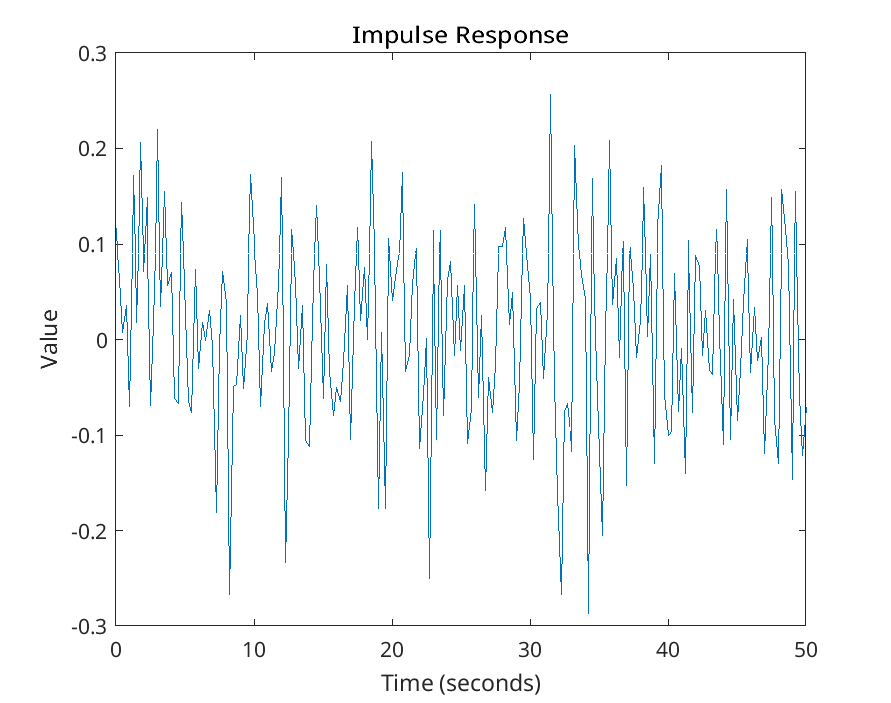
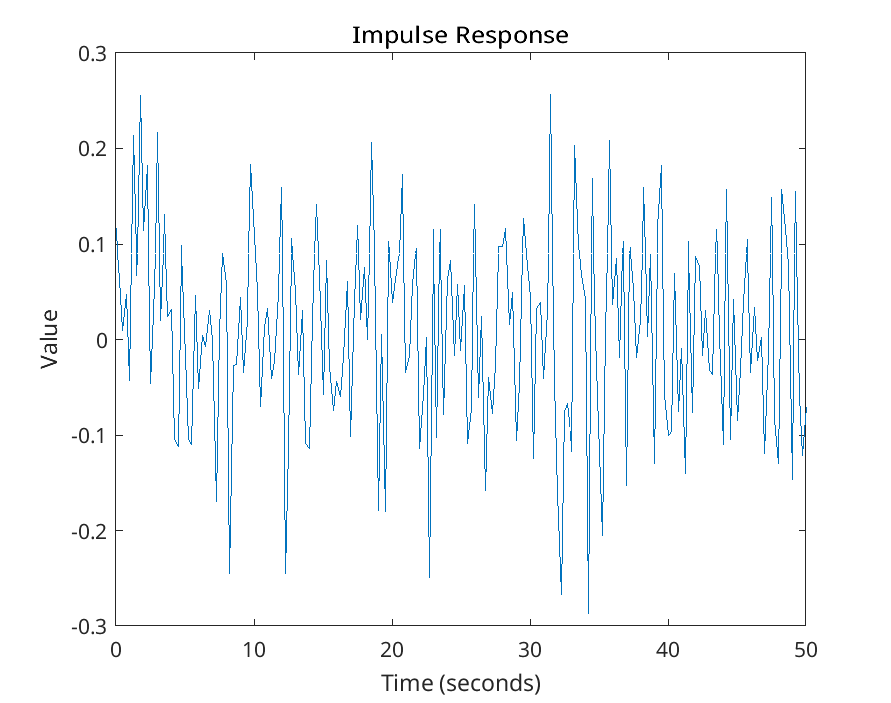
mise à jour

Changed region(s): [[0.1212, 0.2091, 0.2727, 0.6273], [0.3636, 0.5377, 0.3939, 0.5676]]

diff --git a/CE1/freq_domain.m b/CE1/freq_domain.m
@@ -1,0 +1,44 @@
+close all
+clear all
+
+u = prbs(10, 6);
+
+Ts = 0.25
+stop_time = Ts*(length(u) - 1);
+rnd_var = 0.01;
+[~, ~, ~] = mkdir("plots/");
+
+
+simin = struct();
+simin.time = 0:Ts:Ts*(length(u) - 1);
+simin.signals.values = u;
+
+result = sim("model.slx");
+
+y = result.simout.Data;
+
+period = seqperiod(u);
+num_periods = length(u)/period;
+ffts_u = zeros(num_periods, period);
+ffts_y = zeros(num_periods, period);
+
+for i=0:num_periods - 1
+    ffts_u(i + 1, :) = fft(u((i*period + 1):((i + 1) * period)));
+    ffts_y(i + 1, :) = fft(y((i*period + 1):((i + 1) * period)));
+end
+
+averaged_fft_u = mean(ffts_u, 1);
+averaged_fft_y = mean(ffts_y, 1);
+
+N = length(averaged_fft_y);
+Fvec = 0:Ts/N:(N - 1)*Ts/N;
+
+sys_identified = frd(averaged_fft_y, Fvec);
+sys_true = tf([1.2], [1, 2, 1.35, 1.2]);
+sys_true = c2d(sys_true, Ts);
+
+
+figure
+bode(sys_identified);
+hold on
+bode(sys_true);

diff --git a/CE1/script.m b/CE1/script.m
@@ -35,7 +35,7 @@ saveas(fig, "plots/ce1_impulse.png")
 
 %% Autocorrelation Function 
 
-prbs_64 = prbs(6, 4);
+prbs_64 = prbs(3, 2, ones(1, 3));
 [R, h] = intcor(prbs_64, prbs_64); 
 
 fig = figure();
@@ -75,14 +75,16 @@ U_K = U(:, 1:K);
 Theta_K = pinv(U_K)*Y;
     
 lambda = 0.5;
-Theta_regularization = inv(U'*U + lambda*eye(size(U)))*U'*Y;
+Theta_regularization = (U'*U + lambda*eye(size(U))) \ (U'*Y);
 
 sys = tf([1.2], [1, 2, 1.35, 1.2]);
 sys_dt = c2d(sys, Ts, 'zoh');
 sys_impulse = impulse(sys, t)*Ts;
 
 figure
-plot(Theta_K);
+stem(t(1:length(Theta_K)), Theta_K, 'filled');
 hold on
-plot(Theta_regularization);
-plot(sys_impulse);
+stem(t(1:length(Theta_regularization)), Theta_regularization, 'filled');
+stem(t, sys_impulse, 'filled');
+
+legend(["pinv", "regularized", "system"])

diff --git a/CE1/impulse_resp_correlation.m b/CE1/impulse_resp_correlation.m
@@ -1,0 +1,29 @@
+close all
+clear all
+
+Ts = 0.25;
+stop_time = 50;
+rnd_var = 0.01;
+mkdir("plots/")
+
+
+in_sig = prbs(8, 2)*0.7;
+fig = figure();
+simin = struct();
+simin.time = 0:Ts:Ts*(length(in_sig) - 1);
+simin.signals.values = in_sig;
+
+plot(simin.time, simin.signals.values)
+
+result = sim("model.slx");
+
+y = result.simout;
+
+[R, h] = intcor(in_sig, y);
+
+figure
+stem(h, R);
+
+[r, lags] = xcorr(in_sig, y.Data); 
+figure
+stem(lags, r);

diff --git a/CE1/intcor.m b/CE1/intcor.m
@@ -3,7 +3,7 @@ function [R, h] = intcor(u, y)
 %   Detailed explanation goes here
 
 M = seqperiod(u);
-assert(M == seqperiod(y), "the periods of the two signals must match...")
+%assert(M == seqperiod(y), "the periods of the two signals must match...")
 
 h = -M:1:M;
 R = zeros(length(h), 1);
